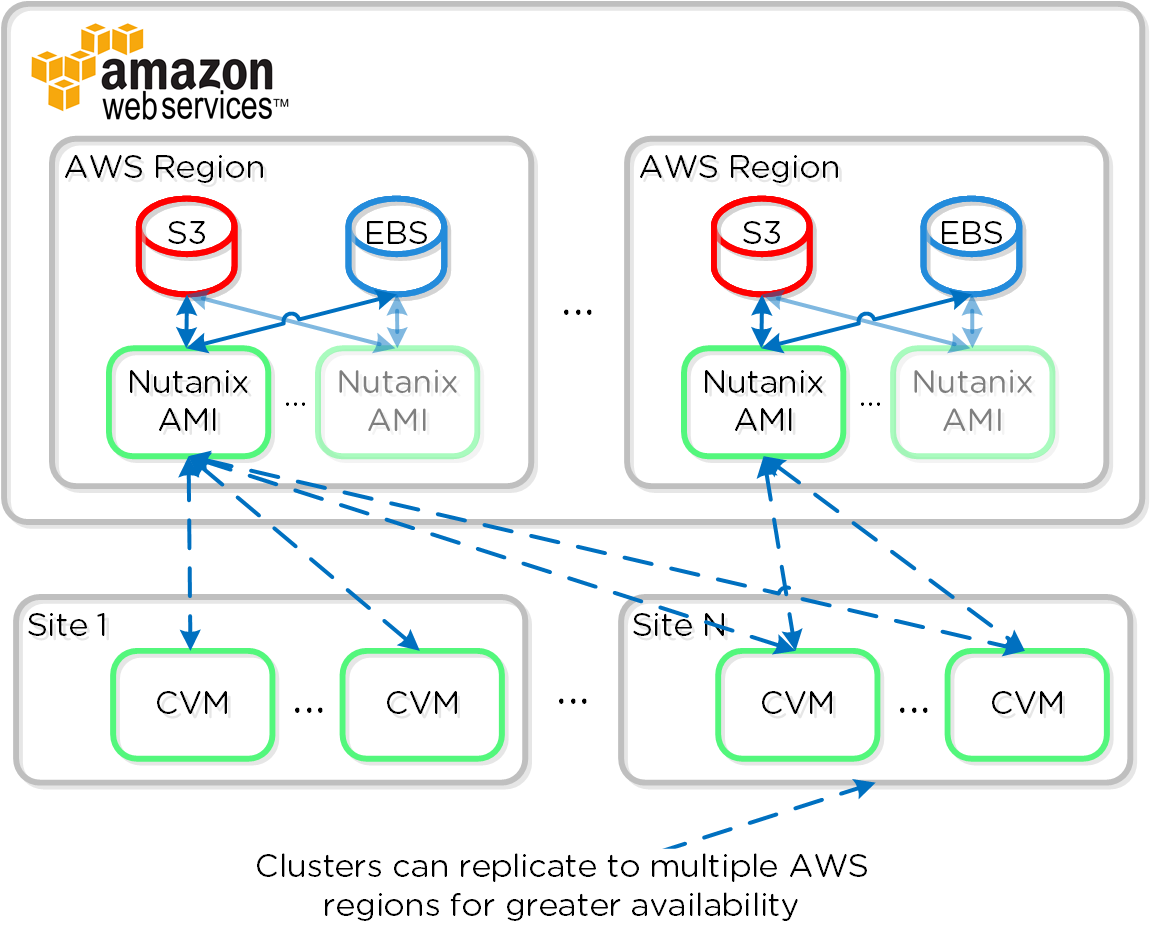
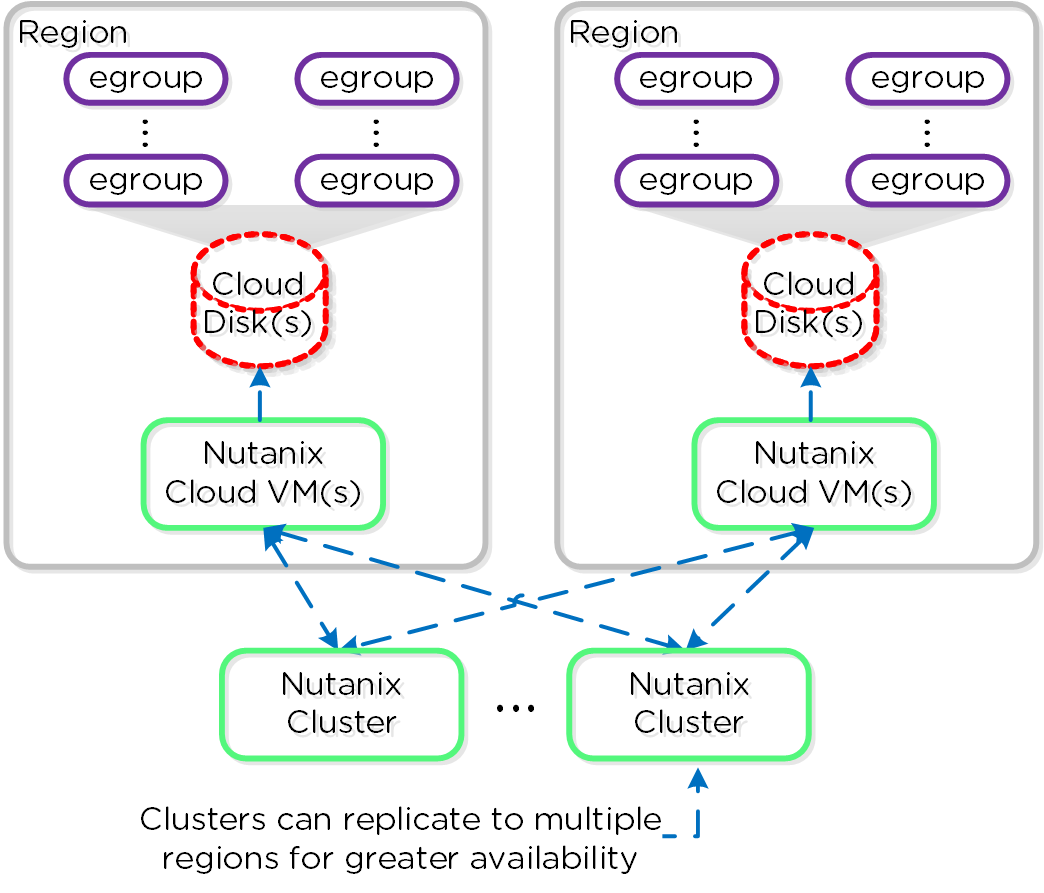
Updated cloud connect and openstack sections

Changed region(s): [[0.0, 0.0, 1.0, 0.9978], [0.9808, 0.0, 1.0, 0.0302]]

diff --git a/index.html b/index.html
@@ -2111,7 +2111,7 @@ vm.on &lt;VM_NAME&gt;
     OVM-alinone
     <ul>
       <li>
-        Includes OpenStack controller and OVM
+        OVM includes all Acropolis drivers and OpenStack controller
       </li>
     </ul>
   </li>
@@ -2119,14 +2119,14 @@ vm.on &lt;VM_NAME&gt;
     OVM-services
     <ul>
       <li>
-        Includes OVM and leverages external controller
+        OVM includes all Acropolis drivers and communicates with external/remote OpenStack controller
       </li>
     </ul>
   </li>
 </ul>
 
 <p>
-  Both deployment modes will be covered in the following sections.
+  Both deployment modes will be covered in the following sections.  You can use in any mode and also switch between modes.
 </p>
 
 <h5>OVM-allinone</h5>
@@ -3746,13 +3746,13 @@ This should only be used for non-production scenarios and the cluster IPs should
 
 <p>Building upon the native DR / replication capabilities of DSF, Cloud Connect extends this capability into cloud providers (currently Amazon Web Services, Microsoft Azure).&nbsp; NOTE: This feature is currently limited to just backup / replication.</p>
 
-<p>Very similar to creating a remote site to be used for native DR / replication, a “cloud remote site” is just created.&nbsp; When a new cloud remote site is created, Nutanix will automatically spin up a single node Nutanix cluster in EC2 (currently m1.xlarge) or Azure Virtual Machines (currently A4\ExtraLarge) to be used as the endpoint.</p>
+<p>Very similar to creating a remote site to be used for native DR / replication, a “cloud remote site” is just created.&nbsp; When a new cloud remote site is created, Nutanix will automatically spin up a single node Nutanix cluster in EC2 (currently m1.xlarge) or Azure Virtual Machines (currently D3) to be used as the endpoint.</p>
 
 <p>The cloud instance is based upon the same Acropolis code-base leveraged for locally running clusters.&nbsp; This means that all of the native replication capabilities (e.g., global deduplication, delta based replications, etc.) can be leveraged.</p>
 
 <p>In the case where multiple Nutanix clusters are leveraging Cloud Connect, they can either A) share the same instance running in the region, or B) spin up a new instance.</p>
 
-<p>The following figure shows a logical representation of an AWS based “remote site” used for Cloud Connect:</p>
+<p>The following figure shows a logical representation of a “remote site” used for Cloud Connect:</p>
 
 <figure id="id-lNtnF1TATe"><img alt="Cloud Connect - Region" class="iimagesv2cloudconn_1png" src="imagesv2/cloudconn_1.png">
 <figcaption><span class="label">Figure 11-42. </span>Cloud Connect Region</figcaption>
@@ -3764,7 +3764,7 @@ This should only be used for non-production scenarios and the cluster IPs should
 <figcaption><span class="label">Figure 11-43. </span>Cloud Connect Multi-region</figcaption>
 </figure>
 
-<p>The same replication / retention policies are leveraged for data replicated using Cloud Connect.&nbsp; As data / snapshots become stale, or expire, the Nutanix CVM in AWS will clean up data as necessary.</p>
+<p>The same replication / retention policies are leveraged for data replicated using Cloud Connect.&nbsp; As data / snapshots become stale, or expire, the cloud cluster will clean up data as necessary.</p>
 
 <p>If replication isn’t frequently occurring (e.g., daily or weekly), the platform can be configured to power up the cloud instance(s) prior to a scheduled replication and down after a replication has completed.</p>
 
